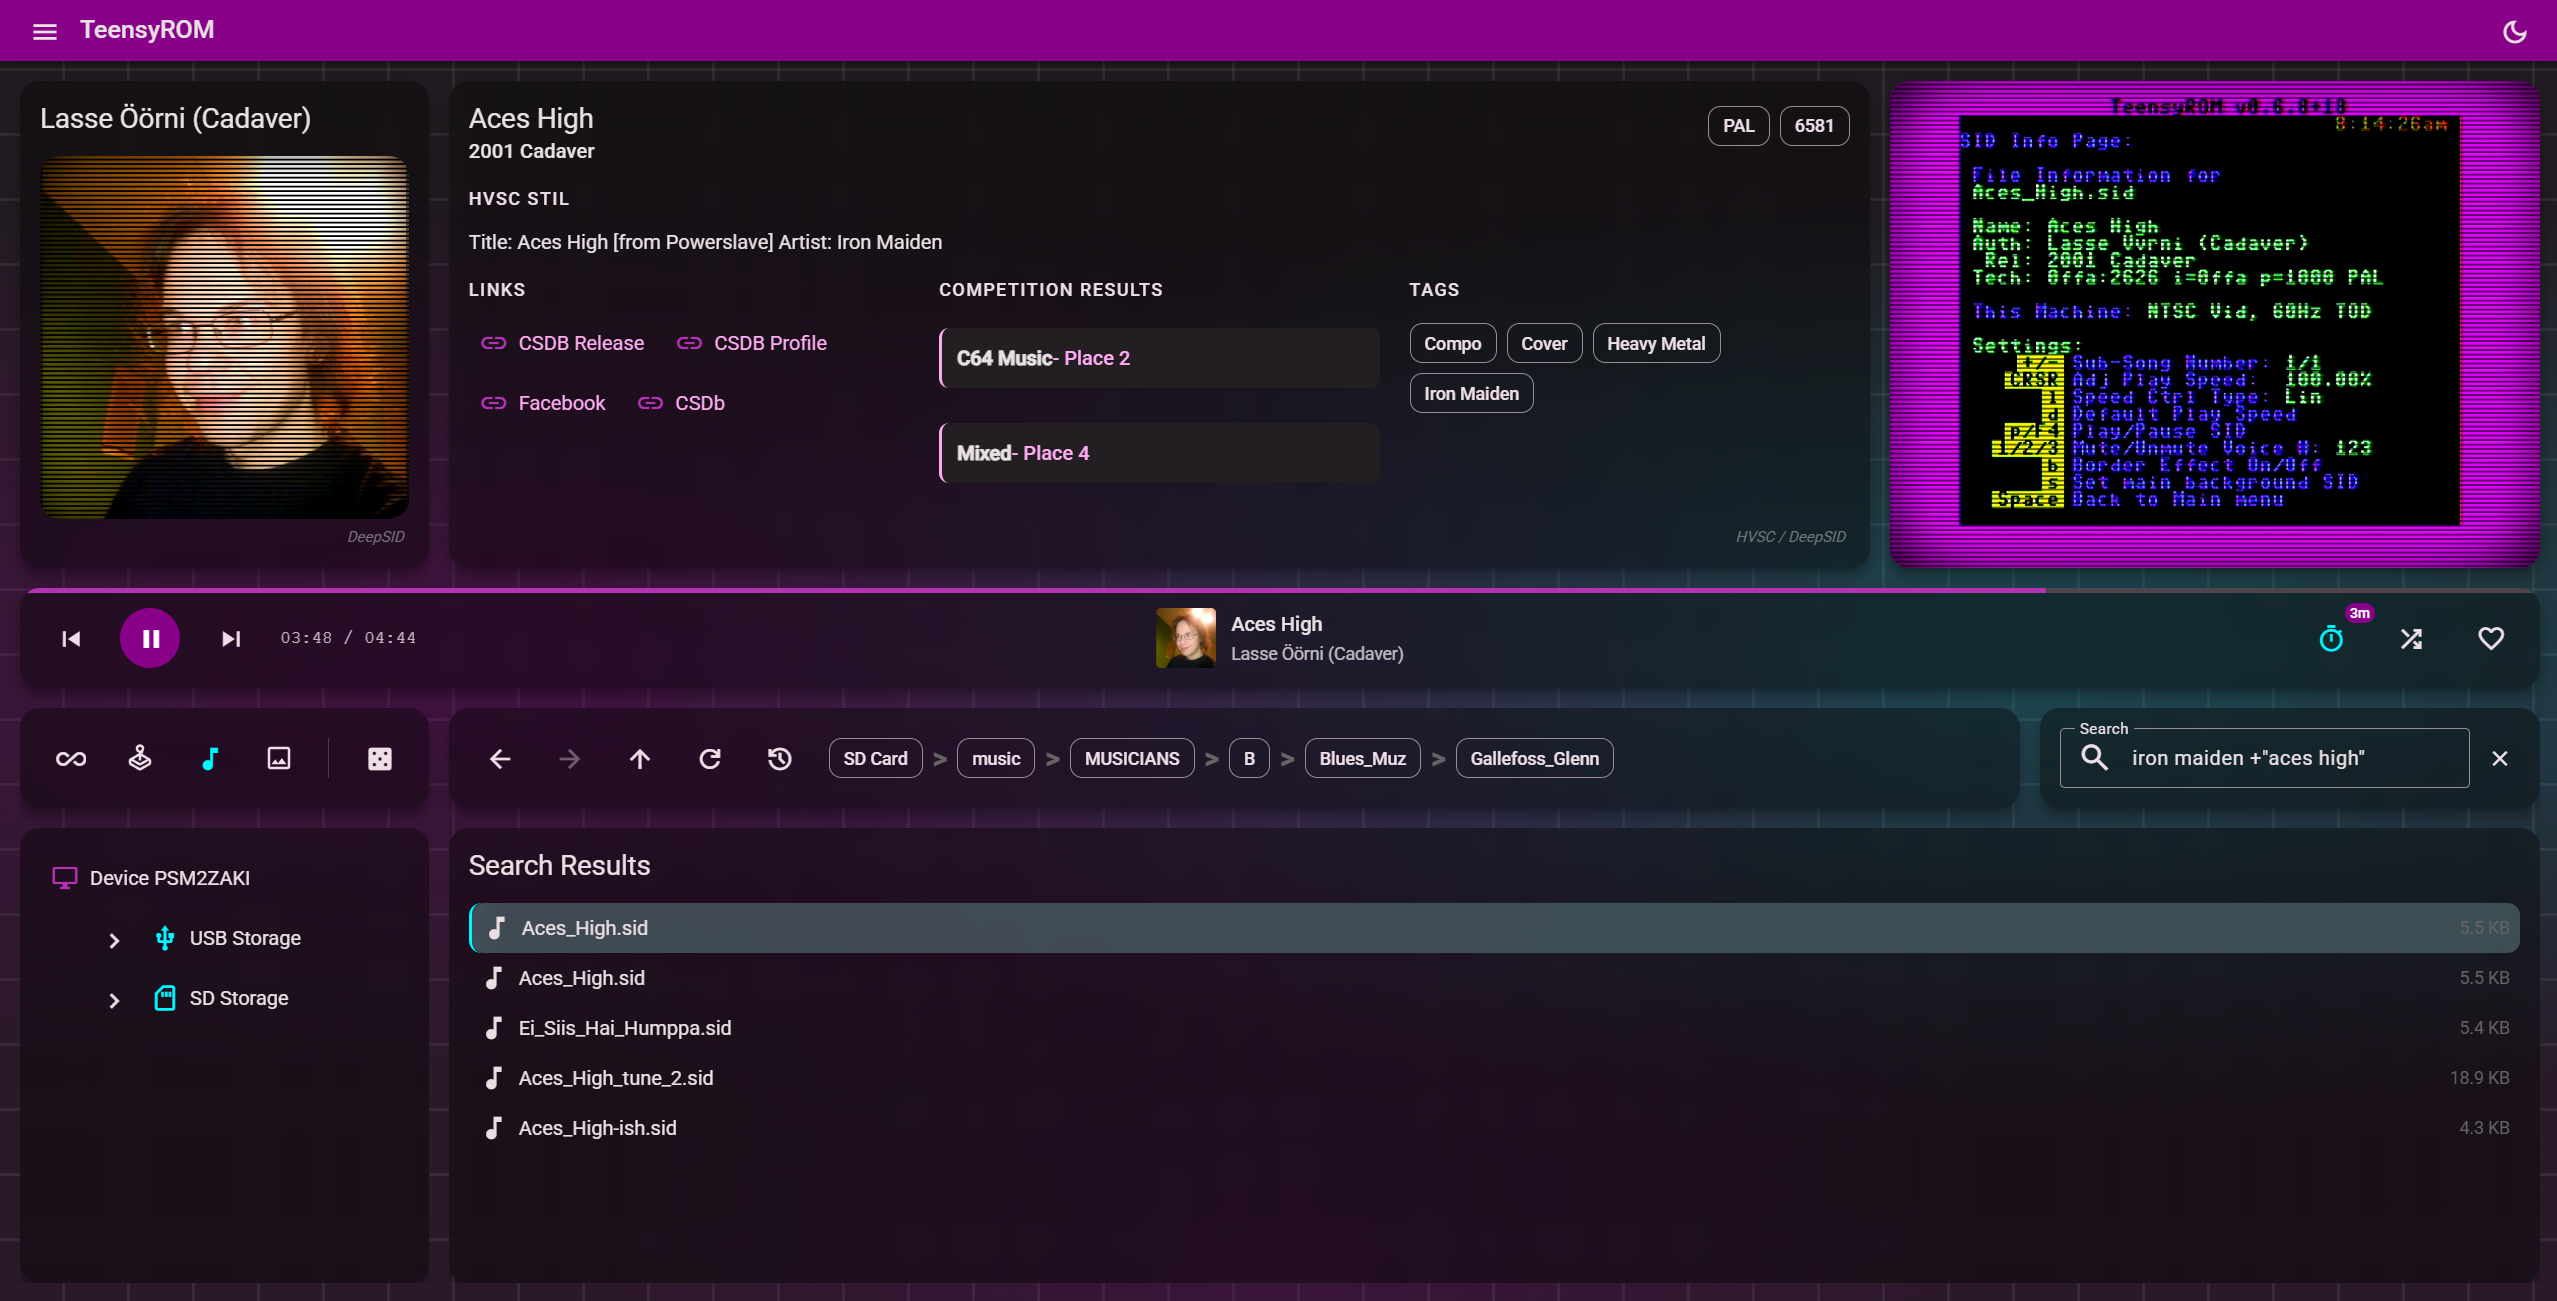
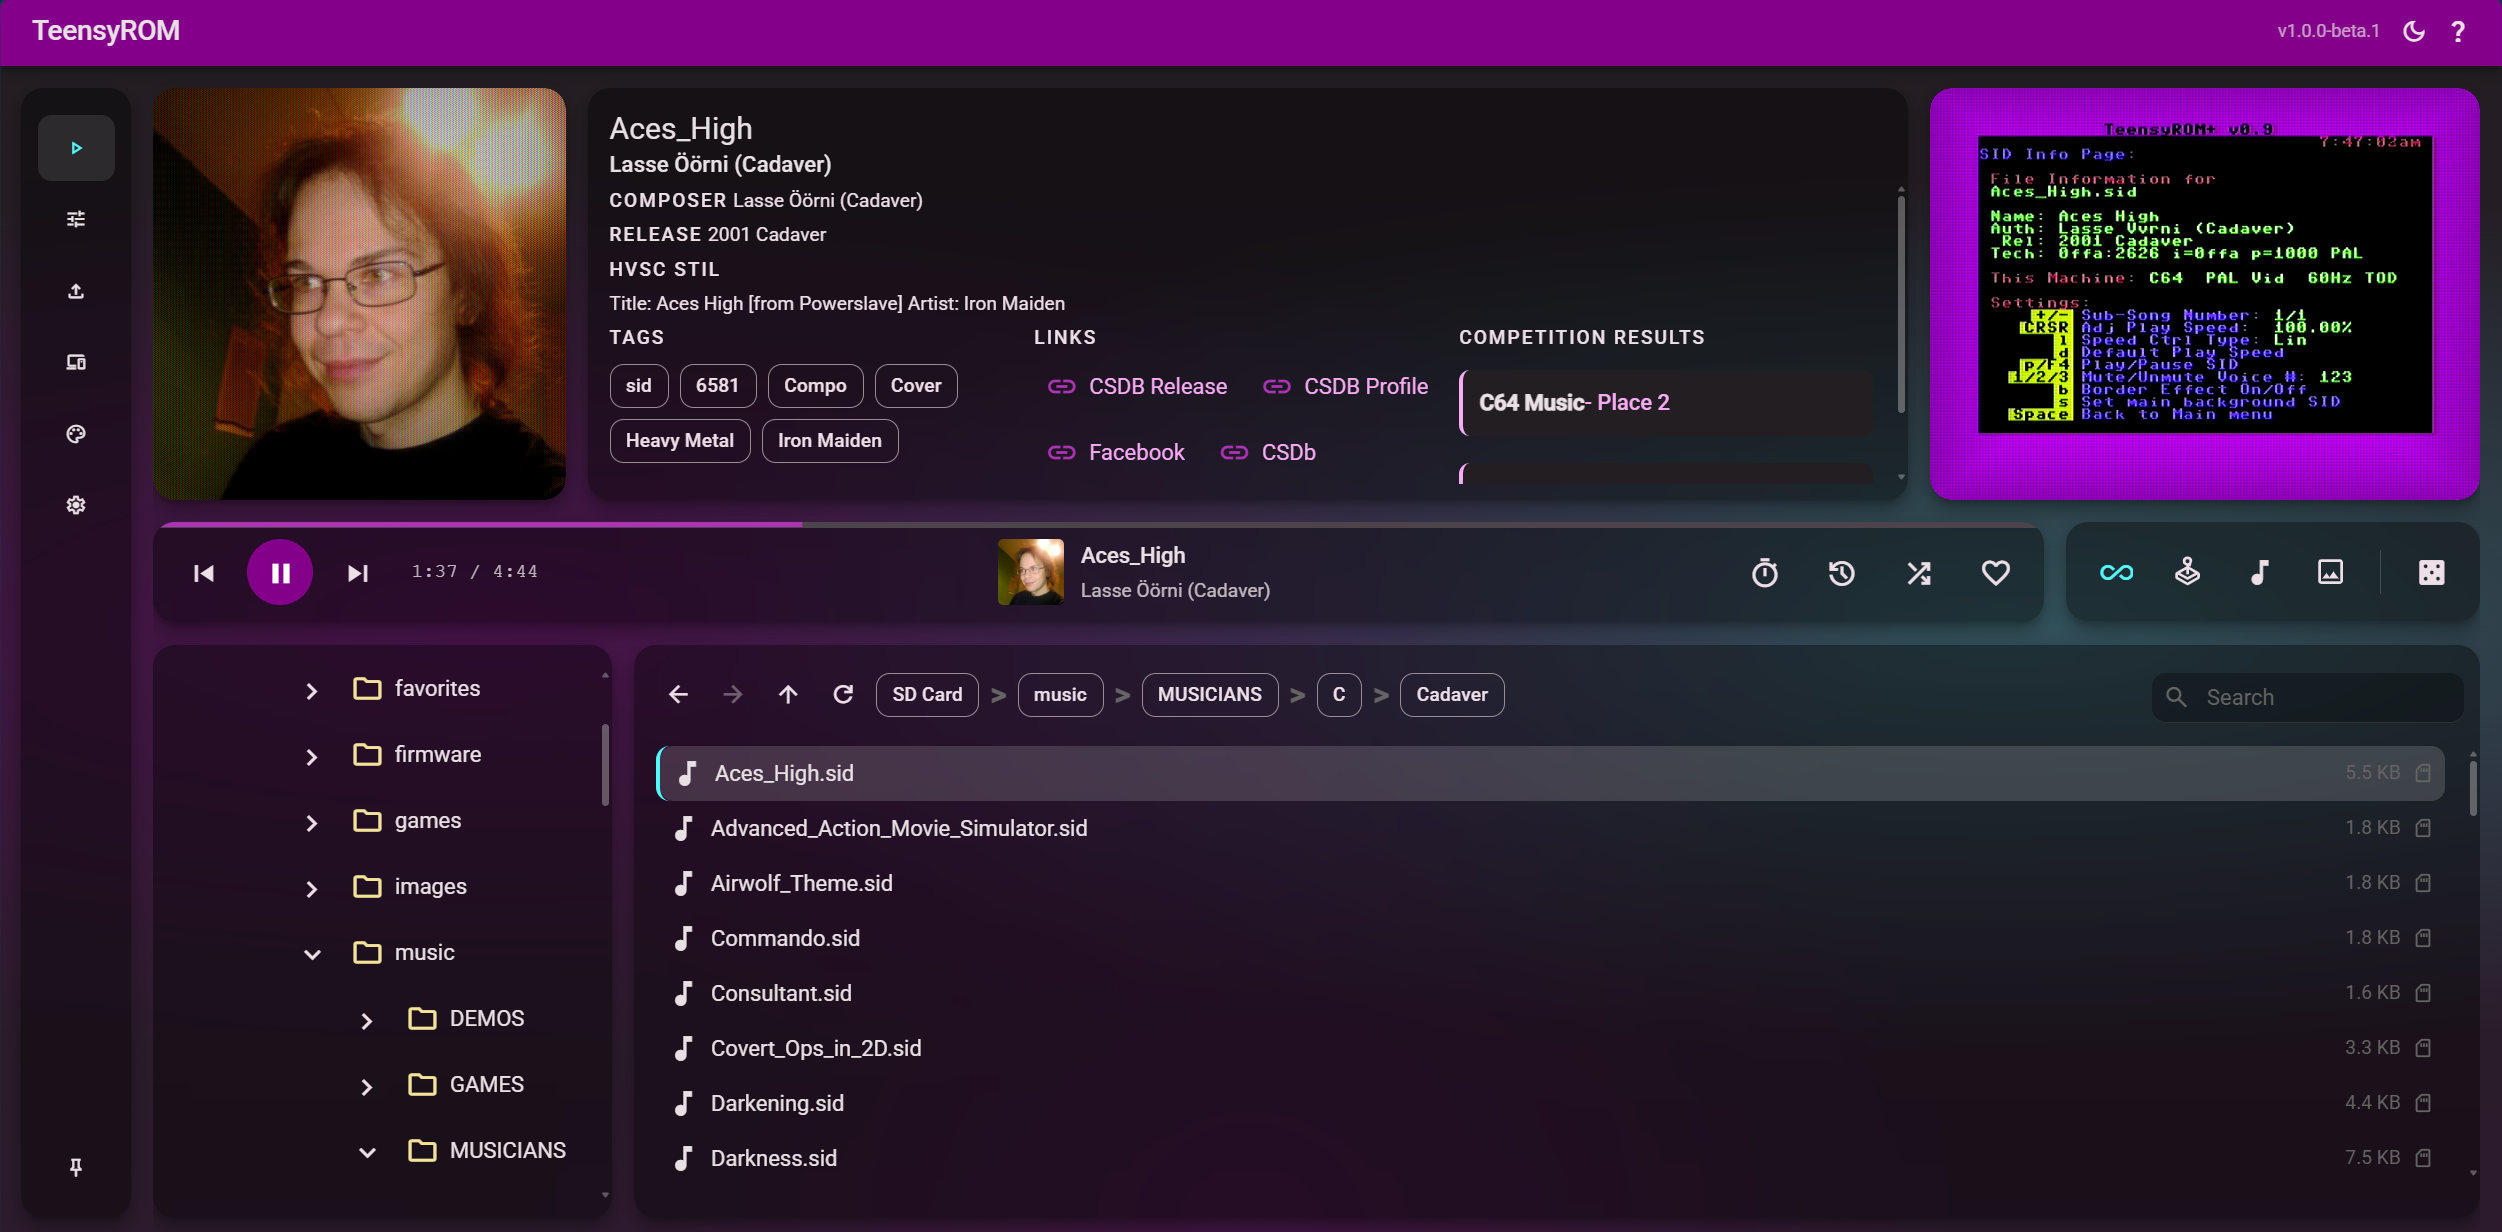
docs: refresh the Trom UI screenshot

diff --git a/docs/trom-ui.md b/docs/trom-ui.md
@@ -2,7 +2,7 @@
 
 Trom UI is the web app of TeensyROM Suite. Browse your TeensyROM's SD and USB storage, launch games, demos, SID music and images on your C64 from any browser, and stream it all like a retro media service. It also copies files to your cart, watches folders on your computer, sets your C64's menu colors, and hosts the [DJ Mixer](dj-mixer.md).
 
-<img width="2557" height="1301" alt="Trom UI playing a SID" src="../.github/images/hero-screenshot.png" />
+<img width="2502" height="1232" alt="Trom UI playing a SID" src="../.github/images/hero-screenshot.png" />
 
 <table>
   <tr>
